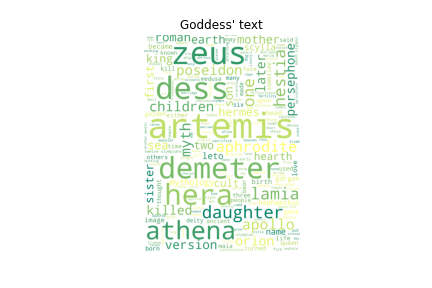
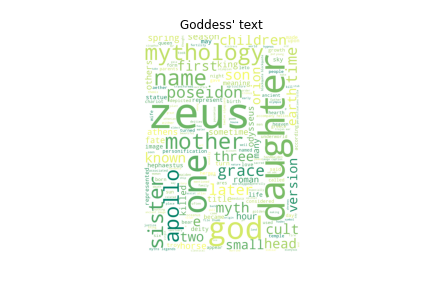
update posts

Changed region(s): [[0.331, 0.125, 0.6921, 0.875]]

diff --git a/content/posts/analysis.md b/content/posts/analysis.md
@@ -3,10 +3,12 @@ title: "Analysis"
 date: 2021-11-29T22:46:41+01:00
 ---
 
-For this part of the project we go in deeper analysis of the dataset. Here you will see the word clouds we created. Finding communities and calculate their TF-IDF. Then finally sentiment of communities. 
+For this part of the project we go in deeper analysis of the dataset. Here we will not go deep into how the analysis was performed, that information is available in our explainer notebook, which can be downloaded [here](https://github.com/iriss04/Final-Project-02805/blob/main/Explainer%20Notebook%20-%20Greek%20Mythology.ipynb). Here you will see the word clouds we created. Finding communities and calculate their TF-IDF. Then finally sentiment of the created communities. 
 
 ## Word clouds
-We created word clouds for the top categories: 
+Word Clouds are a very fun way to get to know your dataset better. Word clouds are a visualisation that highlights the frequency of words within a text, in our case, words within categories. The word cloud picks out the most used words and ranks them by size in an image. For our word clouds we decided to only create them for the six biggest categories. 
+
+Those are:
 - Gods
 - Goddesses
 - Peoples
@@ -14,7 +16,7 @@ We created word clouds for the top categories:
 - Mortals
 - Titans
 
-The six different WordClouds provides a good overview of what the gods, goddesses, peoples, creatures, mortals and titans have in their text files. The gods clearly have one word in common - son. The people text have many familiar expressions as son, family and father. This gives an indication that the peoples text include many family relation. The creature text includes words as horse, centaur and sphinx which is not surprising since the text most likely descirbe what kind of species the creatuers are. In the WordCloud for the mortals three words stand out - son, king and troy. The Trojan war is a big event in the greek mythology which reflects the texts of the mortals. The word "titan" is the most repeated word of the titans, which is not very surprising but gaia - the godess of earth may also seem as a very important godess for the titans. 
+The six different WordClouds provides a good overview of what the gods, goddesses, peoples, creatures, mortals and titans have in their text files. 
 
 ![alt text for screen readers](/images/gods_wc.png "Gods Word Cloud")
 
@@ -28,7 +30,180 @@ The six different WordClouds provides a good overview of what the gods, goddesse
 
 ![alt text for screen readers](/images/titan_wc.png "Titans Word Cloud")
 
-## Communities and TF-IDF
+Here's an overview of what can be learned about the categories from the word clouds: 
+- The gods clearly have one word in common - son. 
+- The goddesses wordcloud has words as daughter and Zeus as the most mentioned ones. In greek mythology Zeus is one the main gods and is said to have a lot of lovers which probably are goddesses. 
+- The people text have many familiar expressions as son, family and father. This gives an indication that the peoples text includes many family relations. - The creatures text includes words as horse, bull, monster, centaur and sphinx which is not surprising since the text most likely describe what kind of species the creatuers are.  
+- In the WordCloud for the mortals three words stand out - son, king and troy. The Trojan war is a big event in the greek mythology which reflects the texts of the mortals. 
+- Zeus, goddess, god and son are the most repeated words for the titans.
+
+
+## Communities
+For our network we identified communities with the Louvain algorithm. With this algorithm we detected 12 communities in our network, ranging from 0 to 11. The smallest community has 2 characters and the largest has 79 characters. 
+
+Here you can see a histogram of the community size distribution. 
+
+![alt text for screen readers](/images/community_dist.png "Distribution of communities")
+
+From the distribution we can see how most of the communities have a distinct number of characters. The most frequent size of a community has 60 characters. The largest community has 79 characters and the second largest has 70 characters. It's interesting to see how different categories distribute down to the largest communities. Here below is a list of the number of different characters in the five largest communities.
+
+Largest community: 
+- Creature    35
+- God         35
+- Goddess     25
+- Cyclope      2
+
+Second largest community:
+- Creature    35
+- God         35
+- Goddess     10
+- Cyclope      2
+
+Third largest community:
+- Creature    35
+- God         34
+- Cyclope      2
+
+Fourth largest community
+- Creature    35
+- God         27
+- Cyclope      2
+
+Fourth largest community
+- Creature    35
+- God         20
+- Cyclope      2
+
+All of the five largest communities include creatures, gods and cyclope. The two largest ones include goddesses as well. But none of the biggest ones include peoples or mortals for example. That means that they don't make large communities with creatures, gods and cyclopes, which is not unusual. 
+
+## TF-IDF of communities
+TF-IDF stands for term frequency-inverse document frequency and it is widely used, for example by Google search engine. This tool is a statistical measure that evaluates how relevant a word is in a document, compared to a collection of documents. To get the TF-IDF score two values are multiplied: how many times a word appears in a document and the invers document frequency of the word in a collection of documents. 
+
+Let's look at our results:
+
+TF for the largest communities are interesting to see but it is only showing us the most frequent words in the communities. So all of the communities could have the same words as the most frequent ones. 
+
+The five most frequent words for each of the five largest communities are the following:
+  - Largest: 'son', 'heracles', 'king', 'father', 'theseus'
+  - Second largest: 'zeus', 'poseidon', 'demeter', 'hades', 'goddess'
+  - Third largest: 'son', 'king', 'jason', 'bull', 'mythology'
+  - Fourth largest: 'artemis', 'goddess', 'zeus', 'mythology', 'also'
+  - Fifth largest: 'son', 'troy', 'achilles', 'war', 'king'
+
+The term frequency is not as descriptive as TF-IDF, since it's only giving us the frequency of a word. TF-IDF is a very useful tool when extracting keywords from a text. The highest scoring words in the five largest communities are the most relevant to that specific community. TF-IDF gives us words that are most descriptive to that specific document, so for the largest communities, none of them get the same words. 
+
+Five of the highest scoring words in terms of TF-IDF for the largest communities are the following: 
+  - Largest: 'amphitryon', 'cetus', 'atreus', 'acrisius', 'anaxagoras'
+  - Second largest: 'udc', 'amun', 'hestia', 'consort', 'persephone'
+  - Third largest: 'fleece', 'talos', 'ino', 'circe', 'hnir'
+  - Fourth largest: 'nike', 'arete', 'dike', 'aether', 'clotho'
+  - Fifth largest: 'priam', 'patroclus', 'hector', 'neoptolemus', 'ascanius'
+
 
 ## Sentiment of communities
+A sentiment analysis was performed using two different methods: labMT (language assessment by Mechanical Turk) and VADER.
+
+We did the sentiment analysis on two levels, character levels and community level. With this analysis we are able to identify which are the happiest and saddest characters and also find which communities are the happiest and saddest. 
+
+But in doing this we realised that not much sentiment can be extracted from the Fandom page, so we went out on the Internet to find an extra source that would provide us with more information about the characters.
+
+We found [Theoi](https://www.theoi.com/), an encyclopedia-like free reference guide for greek mythology. An example of one of its pages can be found [here](https://www.theoi.com/Olympios/Zeus.html). All (or most) pages contain a section called CLASSICAL LITERATURE QUOTES, which provide a more "sentimental" description than the wiki entries.
+
+#### Character level - LabMT
+
+![alt text for screen readers](/images/char_labmt.png "Distribution of sentiments")
+Here you can see the distribution of all characters associated sentiments.
+
+We detected the happiest and saddest characters of the greek mythology network:
+
+Happiest characters LabMT:
+- Helios
+- Selene
+- Aegle
+- Leto
+- Persephone
+- Asteria
+- Eos
+- Aceso
+- Ariadne
+- Atlas
+
+Saddest characters LabMT:
+- Eris
+- Hypnos
+- Ares
+- Sphinx
+- Cerberus
+- Charybdis
+- Penthesilea
+- Ate
+- Achlys
+- Aetna
+
+
+#### Character level - Vader
+
+![alt text for screen readers](/images/char_vader.png "VADER")
+
+Happiest characters Vader:
+- Psyche
+- Arete
+- Artemis
+- Pygmalion
+- Leda
+- Hermes
+- Apollo
+- Phoenix
+- Demeter
+- Aphrodite
+
+Saddest characters Vader:
+- Cerberus
+- Phaethon
+- Sphinx
+- Ate
+- Penthesilea
+- Charybdis
+- Dionysus
+- Hypnos
+- Eris
+- Pelos
+
+
+#### Community level 
+
+The happiest communities for LabMT are: 
+- Atlas - Maia - Pleiades 
+- Apollo - Helios - Horae 
+- Poseidon - Gaia - Aphrodite
+
+The happiest communities for Vader are: 
+- Thetis - Peleus - Amphitrite
+- Atlas - Maia - Pleiades 
+- Poseidon - Gaia - Aphrodite
+
+The saddest communities for LabMT are: 
+- Athena - Scylla - Medusa
+- Muses - Hercules (1997 film) - Adonis
+- Troy - Ares - Agamemnon
+
+The saddest communities for Vader are: 
+- Troy - Ares - Agamemnon 
+- Athena - Scylla - Medusa 
+- Muses - Hercules (1997 film) - Adonis
+
+The above happiest communities shows that the happiest community for LabMT is actually the second happiest community of Vader. The third happiest community are equal for the two analysis methods. Both approaches have the same three communities as the saddest one but not in the same order.
+
+Helios is the god of sun, Poseidon is the god of water, Aphrodite is the goddess of love and Gaia is the god of earth. These themes are often thought of as calm and positive.
+
+Medusa is a monster, Heracles is god of sports and Troy is a city which is known for the big Trojan war. Not surprisingly, these characters are among the saddest communities.
+
+![alt text for screen readers](/images/labmt_average_with_error_bars.png "LabMT error bar")
+
+![alt text for screen readers](/images/vader_average_with_error_bars.png "VADER error bar")
+
+In the LabMt plot the average sentiments lays between 5 to 7 for the different communities. The variation is not that wide which leads to a smaller standard devation, as showed as error bars, compared to the ones in the Vader plot. As seen in the Vader plot the range in average sentiments are broad. This is because the different sentiments for the different communitites and characters vary. This leads to greater standard deviations, hence the long error bars.
+
+The conclusion of this is that the dictionary-based method makes the communities more positive compared to the rule-based method that overall has lesser positivity in the different communities.
+
 

diff --git a/content/posts/Network.md b/content/posts/Network.md
@@ -1,5 +1,5 @@
 ---
-title: "The Network"
+title: "The Network and basic stats"
 date: 2021-11-29T23:45:51+01:00
 ---
 
@@ -24,7 +24,7 @@ The ForceAtlas2 algorithm was also used when plotting the GCC to make positions 
 
 ## Basic statistics of the network
 ### In and out degrees
-We calculated the in and out degrees for the network and the results did not surprise us. Here you can see a bar plot of the top 15 most connected characters. Zeus has the top in and out degree, which is not surprising since he is the biggest name in Greek Mythology. 
+We calculated the in and out degrees for the network and the results did not surprise us. Here you can see a bar plot of the top 15 most connected characters in our network. Zeus has the top in and out degree, which is not surprising since he is the biggest name in Greek Mythology. 
 
 ![alt text for screen readers](/images/top15_in_degree.png "in degree top 15")
 The in-degree tells us the frequency that other character pages mention the character. 
@@ -34,9 +34,19 @@ The out-degree tells us the frequency that a character mention other characters.
 
 
 ![alt text for screen readers](/images/dist.png "distributions")
+* Inward degree distribution
+    * This distribution follows a power-law-like pattern. There is a significant number of characters with none-to-small amount of inward links. This means that there are a few distinct characters pointed by many, and many much less relevant characters pointed by very few.  Similar to a videogame, but not as extreme, there is a character (or a set of characters, depending on where we set the degree limit) there are a few central nodes that interact with many at some point.
+* Outward degree distribution
+    * Unlike the inwards degree distribution, here the most common number of degrees is  "spread" among more values. It is closer to a Poisson distribution. 
 
-![alt text for screen readers](/images/powerlaw.png "powerlaw")
 
+### Powerlaw
+![alt text for screen readers](/images/powerlaw.jpg "powerlaw")
+
+The powerlaw exponent $\gamma$ (alpha in our output), is $\gamma \approx 2.6$ for the in-degree network and $\gamma \approx 3.6$ for the out-degree. According to Barbasi (Barabasi, 4.7), this would put the in-degree network in the scale free regime, and the out-degree in the random network regime. 
+
+This was expected, as multiple hubs were noticed in the in-degree network, opposed to none in the out-degree network, as is common in these networks:
+In a random network most nodes have comparable degrees and hence hubs are forbidden. Hubs are not only tolerated, but are expected in scale-free networks. Furthermore, the more nodes a scalefree network has, the larger are its hubs. Indeed, the size of the hubs grows polynomially with network size, hence they can grow quite large in scalefree networks. In contrast in a random network the size of the largest node grows logarithmically or slower with N, implying that hubs will be tiny even in a very large random network. (Barbasi, 4.3)
 
 
 

diff --git a/content/posts/data.md b/content/posts/data.md
@@ -44,6 +44,6 @@ Here are the initial steps we took to extract the data.
 5) Further processing retrieves the connections between characters that allows us to generate a network. You can see the network and find more information on it on [the network](https://iriss04.github.io/posts/network/) post.
 
 ## Size of the dataset
-- Get the size of the zip file that can be downloaded.
-- Number of pages
+- Size of dataset: 4 MB
+- Number of pages: 547
 

diff --git a/content/posts/notebook.md b/content/posts/notebook.md
@@ -5,6 +5,6 @@ date: 2021-11-29T15:05:55+01:00
 
 For this project we created an explainer notebook. 
 
-ÍBS: I'll put a description of the notebook here
+In the explainer notebook you can find description of all the tools used in this assignment and the whole code. 
 
 You can find the notebook [here](https://github.com/iriss04/Final-Project-02805/blob/main/Explainer%20Notebook%20-%20Greek%20Mythology.ipynb).
